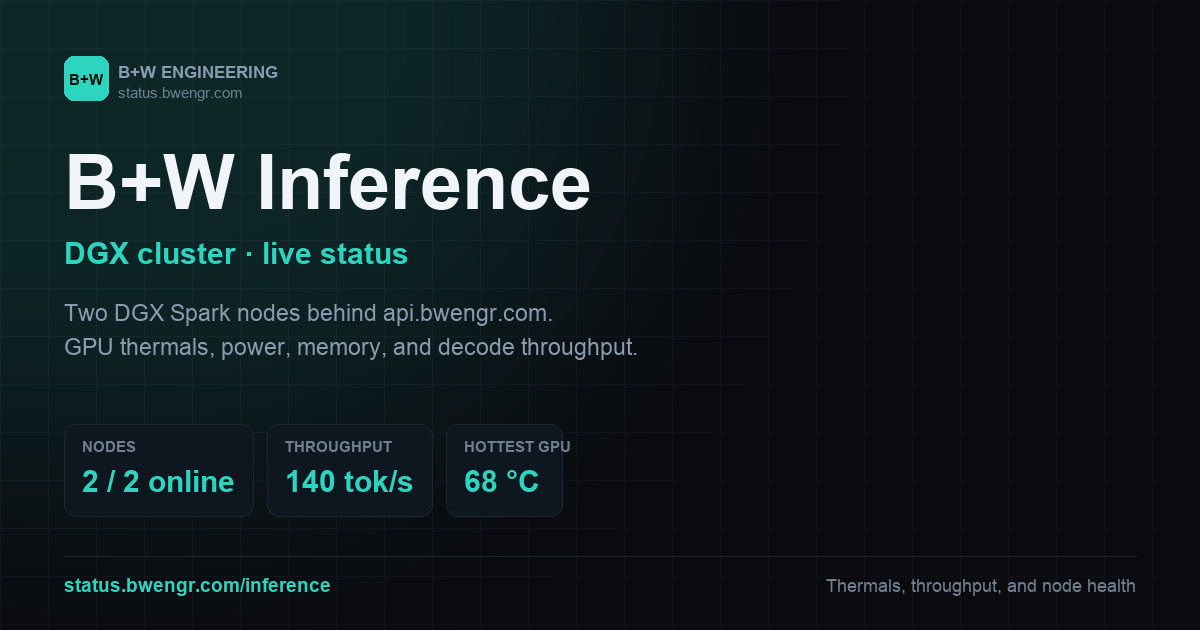
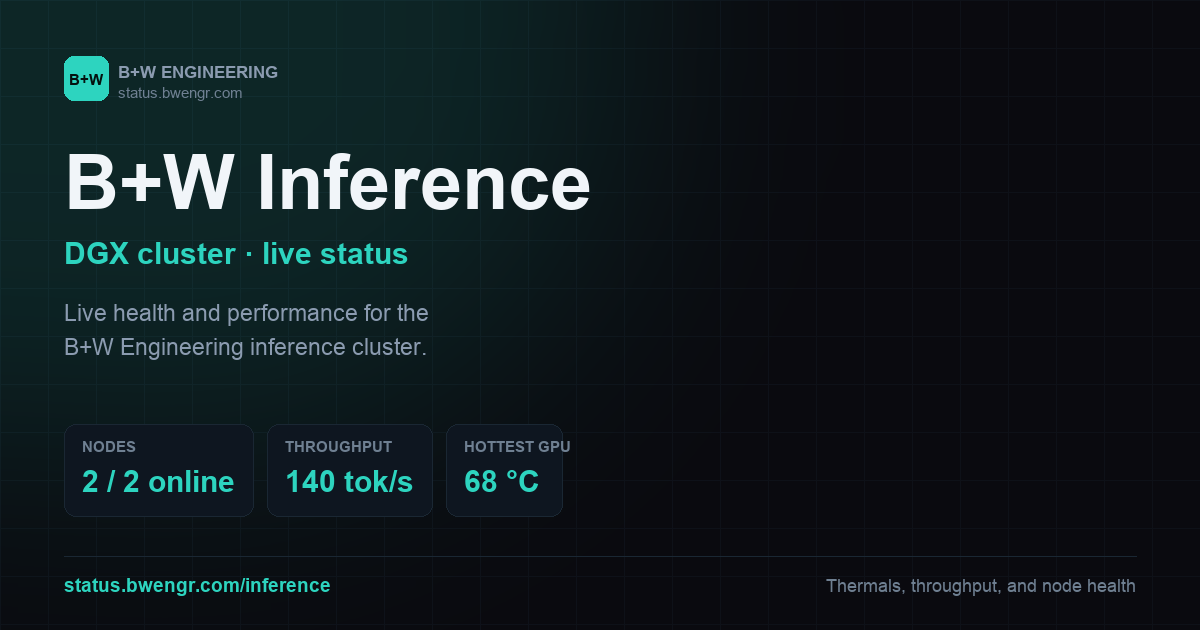
Copy: drop technical lede and privacy disclaimer on inference page

Changed region(s): [[0.0308, 0.4825, 0.5242, 0.573]]

diff --git a/scripts/make-og.py b/scripts/make-og.py
@@ -95,8 +95,8 @@ def main():
         title="B+W Inference",
         sub="DGX cluster \u00b7 live status",
         lede=[
-            "Two DGX Spark nodes behind api.bwengr.com.",
-            "GPU thermals, power, memory, and decode throughput.",
+            "Live health and performance for the",
+            "B+W Engineering inference cluster.",
         ],
         chips=[("nodes", "2 / 2 online"), ("throughput", "140 tok/s"), ("hottest gpu", "68 \u00b0C")],
         path="status.bwengr.com/inference",
